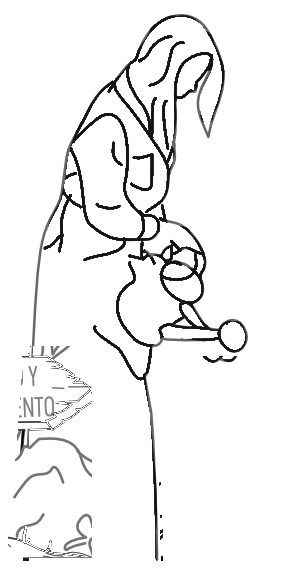
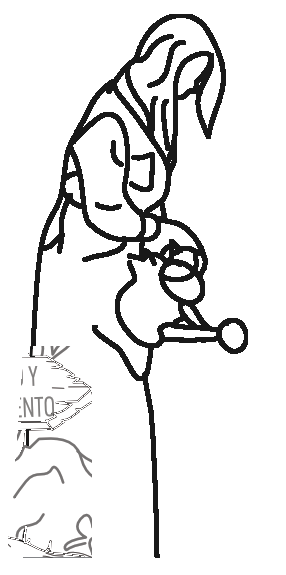
Regadera: sin duplicado, líneas más gruesas, más lenta y sin líneas sueltas
Claude-Session: https://claude.ai/code/session_01Tckd7FRN1Wj5sD4FJaZp8R

diff --git a/src/App.jsx b/src/App.jsx
@@ -1038,17 +1038,17 @@ export default function App() {
         jardineroTweenRef.current.pause()
       }
 
-      // Chica de la regadera: 1-6 y vuelta 6-1 (12 fotogramas) a 8 fps, con una
+      // Chica de la regadera: 1-6 y vuelta 6-1 (12 fotogramas) a 4 fps, con una
       // pausa muy corta entre vueltas. En reposo, fotograma 0.
       if (regaderaImageRef.current) {
         const sequence = [1, 2, 3, 4, 5, 6, 6, 5, 4, 3, 2, 1]
         const regaderaState = { step: 0 }
         regaderaTweenRef.current = gsap.to(regaderaState, {
           step: sequence.length - 1,
-          duration: (sequence.length - 1) / 8,
+          duration: (sequence.length - 1) / 4,
           ease: `steps(${sequence.length - 1})`,
           repeat: -1,
-          repeatDelay: 0.35,
+          repeatDelay: 0.5,
           paused: true,
           onUpdate: () => {
             if (regaderaImageRef.current) {

diff --git a/CLAUDE.md b/CLAUDE.md
@@ -217,3 +217,10 @@ claro en español.
   Chica de la maceta: pausas cortas (0,6 s arriba, 0,8 s al final).
   "Ajardinamiento" → "Paisajismo" en textos (MITECO, Academia). Copias:
   scratchpad `Casa_before_regadera.png`, `fondo_before_regadera.jpg`.
+- 2026-11-12 (4): regadera: Casa.png original tenía a la chica dibujada dos
+  veces (negra y gris); el reposo pasa a ser su Frame 1 limpio. Líneas de los
+  fotogramas engrosadas (+1 px, casi negras), nada por debajo del borde del
+  forjado, 4 fps con 0,5 s de pausa. Quitadas dos líneas verticales sueltas
+  (una del fondo, x≈3866; otra un path de `edificio_izquierda.svg`).
+  Pendiente: plantas que quedan detrás de ella (hace falta la capa de plantas
+  sin la chica exportada desde Affinity).
